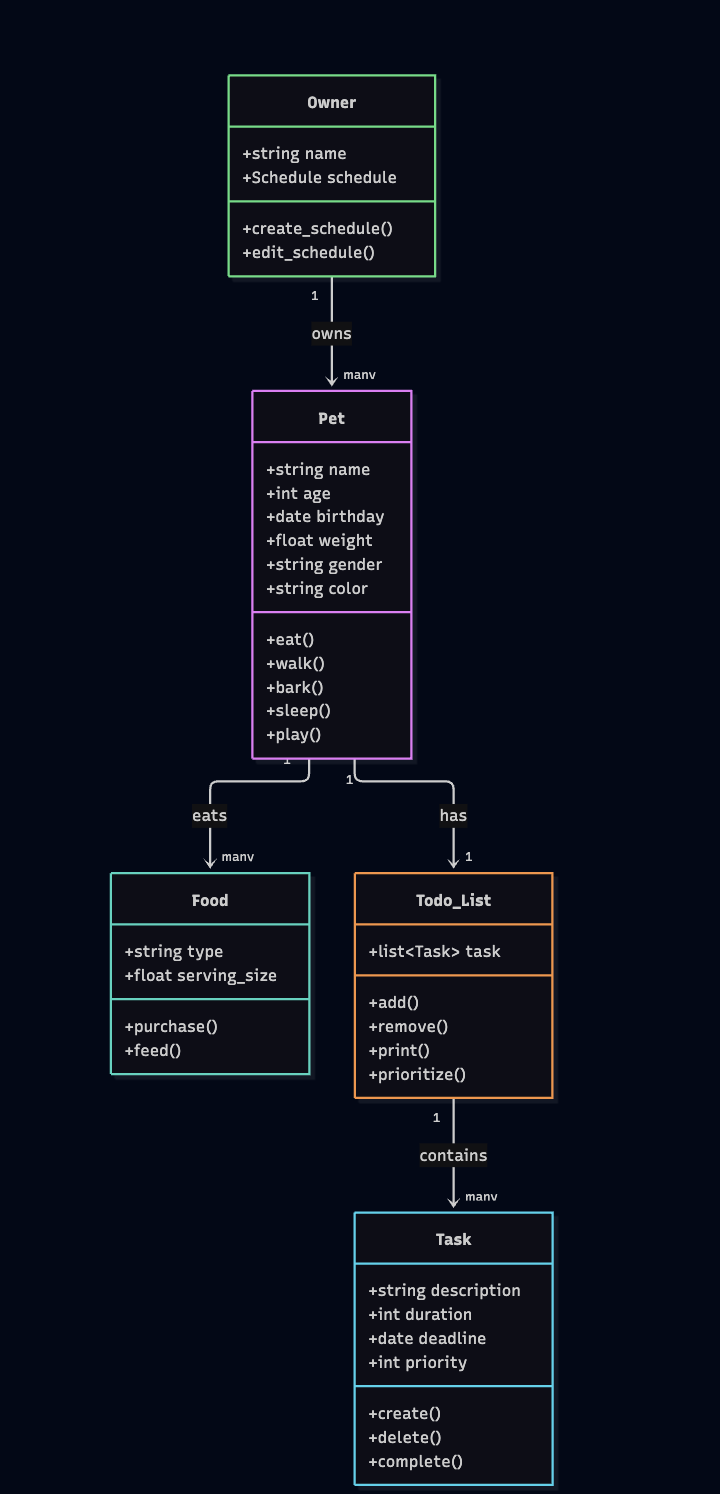
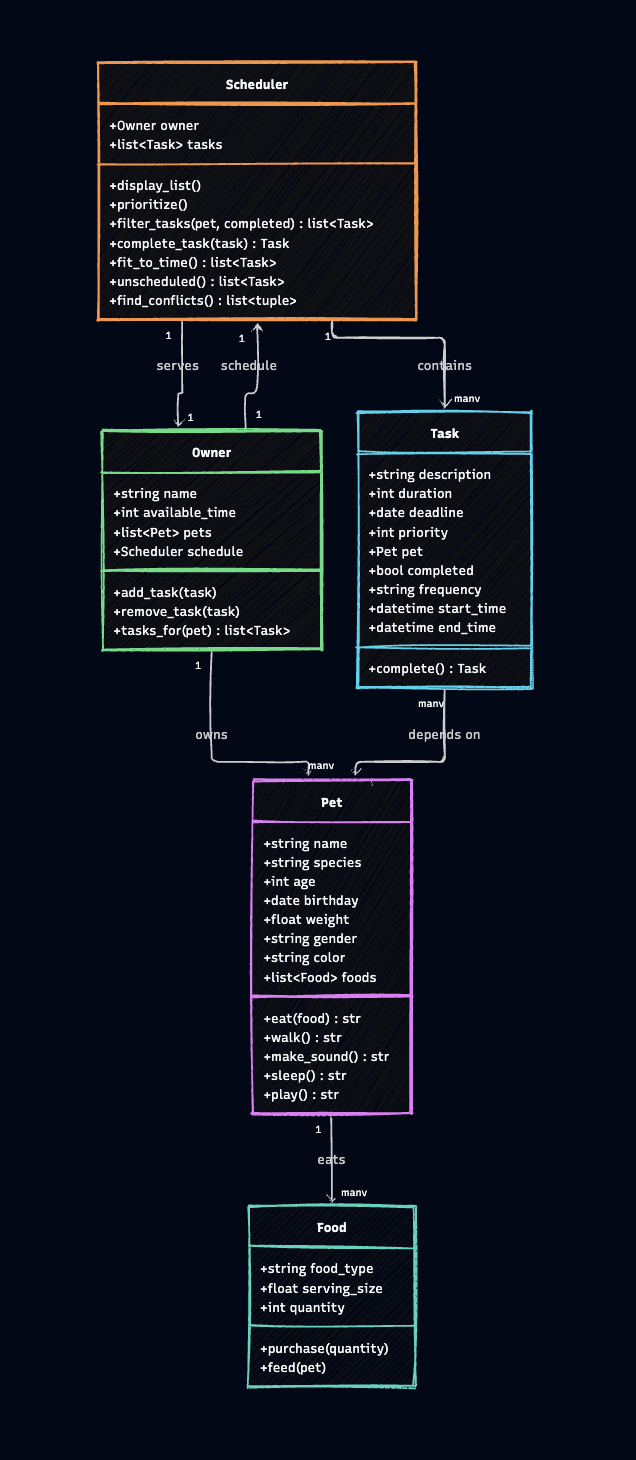
finished building out classes + restructured again
Completed Step 1: Scaffold the Logic Layer; restructured a few methods and organization again; updated uml_draft and mermaid_diagram

Changed region(s): [[0.1494, 0.0308, 0.8365, 1.0], [0.7469, 0.5856, 0.7767, 0.7397]]

diff --git a/pawpal_systems.py b/pawpal_systems.py
@@ -1,7 +1,10 @@
 from __future__ import annotations
 
-from dataclasses import dataclass, field
-from datetime import date
+from dataclasses import dataclass, field, replace
+from datetime import date, datetime, timedelta
+
+# Days until the next occurrence of a recurring task
+FREQUENCY_DAYS = {"daily": 1, "weekly": 7}
 
 
 @dataclass
@@ -12,25 +15,106 @@ class Task:
     priority: int  # 1 is the most urgent
     pet: Pet  # each task depends on a pet (Task "many" -> "1" Pet)
     completed: bool = False
+    frequency: str = "once"  # "once", "daily" or "weekly"
+    start_time: datetime | None = None  # optional; only timed tasks can conflict
 
-    def complete(self) -> None:
-        pass
+    def __post_init__(self) -> None:
+        if self.frequency != "once" and self.frequency not in FREQUENCY_DAYS:
+            raise ValueError(f"Unknown frequency: {self.frequency}")
+
+    @property
+    def end_time(self) -> datetime | None:
+        if self.start_time is None:
+            return None
+        return self.start_time + timedelta(minutes=self.duration)
+
+    def complete(self) -> Task | None:
+        """Mark done; for a recurring task, return the next occurrence (else None)."""
+        self.completed = True
+        if self.frequency == "once":
+            return None
+        shift = timedelta(days=FREQUENCY_DAYS[self.frequency])
+        next_start = self.start_time + shift if self.start_time else None
+        return replace(
+            self, deadline=self.deadline + shift, start_time=next_start, completed=False
+        )
+
+
+def _priority_key(task: Task) -> tuple:
+    # 1. completed: incomplete tasks first, completed tasks last
+    # 2. priority: ascending, since 1 is the most urgent
+    # 3. deadline: earliest first, to break priority ties
+    # 4. duration: shortest first, to break deadline ties
+    return (task.completed, task.priority, task.deadline, task.duration)
 
 
 @dataclass
-class TodoList:
-    tasks: list[Task] = field(default_factory=list)
+class Scheduler:
+    # Scheduler "1" -> "1" Owner; excluded from repr/eq to avoid infinite recursion
+    owner: Owner = field(repr=False, compare=False)
+    tasks: list[Task] = field(default_factory=list)  # Scheduler "1" -> "many" Task
 
     def display_list(self) -> None:
-        pass
+        if not self.tasks:
+            print("No tasks.")
+            return
+        for i, task in enumerate(self.tasks, start=1):
+            mark = "x" if task.completed else " "
+            print(
+                f"{i}. [{mark}] {task.description} ({task.pet.name}) - "
+                f"priority {task.priority}, due {task.deadline}, "
+                f"{task.duration} min, {task.frequency}"
+                + (f", starts {task.start_time:%Y-%m-%d %H:%M}" if task.start_time else "")
+            )
 
     def prioritize(self) -> None:
-        # Sort self.tasks in place by these keys, in order:
-        #   1. completed: incomplete tasks first, completed tasks last
-        #   2. priority: ascending, since 1 is the most urgent
-        #   3. deadline: earliest first, to break priority ties
-        #   4. duration: shortest first, to break deadline ties
-        pass
+        self.tasks.sort(key=_priority_key)
+
+    def filter_tasks(
+        self, pet: Pet | None = None, completed: bool | None = None
+    ) -> list[Task]:
+        return [
+            t
+            for t in self.tasks
+            if (pet is None or t.pet is pet)
+            and (completed is None or t.completed == completed)
+        ]
+
+    def complete_task(self, task: Task) -> Task | None:
+        """Complete a task and queue its next occurrence if it recurs."""
+        next_task = task.complete()
+        if next_task is not None:
+            self.tasks.append(next_task)
+        return next_task
+
+    def fit_to_time(self) -> list[Task]:
+        """Pick incomplete tasks, most urgent first, that fit in the owner's available_time."""
+        plan: list[Task] = []
+        remaining = self.owner.available_time
+        for task in sorted(self.filter_tasks(completed=False), key=_priority_key):
+            if task.duration <= remaining:
+                plan.append(task)
+                remaining -= task.duration
+        return plan
+
+    def unscheduled(self) -> list[Task]:
+        """Incomplete tasks that fit_to_time() leaves out for lack of time."""
+        planned = {id(t) for t in self.fit_to_time()}
+        return [
+            t
+            for t in sorted(self.filter_tasks(completed=False), key=_priority_key)
+            if id(t) not in planned
+        ]
+
+    def find_conflicts(self) -> list[tuple[Task, Task]]:
+        """Pairs of incomplete timed tasks whose time ranges overlap, across all pets."""
+        timed = [t for t in self.filter_tasks(completed=False) if t.start_time]
+        return [
+            (a, b)
+            for i, a in enumerate(timed)
+            for b in timed[i + 1 :]
+            if a.start_time < b.end_time and b.start_time < a.end_time
+        ]
 
 
 @dataclass
@@ -39,11 +123,16 @@ class Food:
     serving_size: float
     quantity: int = 0  # units in stock, updated by purchase() and feed()
 
-    def purchase(self) -> None:
-        pass
+    def purchase(self, quantity: int = 1) -> None:
+        if quantity <= 0:
+            raise ValueError("quantity must be positive")
+        self.quantity += quantity
 
     def feed(self, pet: Pet) -> None:
-        pass
+        if self.quantity <= 0:
+            raise ValueError(f"No {self.food_type} left to feed {pet.name}")
+        self.quantity -= 1
+        pet.eat(self)
 
 
 @dataclass
@@ -62,34 +151,40 @@ class Pet:
         had_birthday = (today.month, today.day) >= (self.birthday.month, self.birthday.day)
         return today.year - self.birthday.year - (not had_birthday)
 
-    def eat(self) -> None:
-        pass
+    def eat(self, food: Food) -> str:
+        return f"{self.name} ate {food.serving_size} of {food.food_type}"
 
-    def walk(self) -> None:
-        pass
+    def walk(self) -> str:
+        return f"{self.name} went for a walk"
 
-    def make_sound(self) -> None:
-        pass
+    def make_sound(self) -> str:
+        sounds = {"dog": "Woof!", "cat": "Meow!", "bird": "Tweet!"}
+        return f"{self.name}: {sounds.get(self.species.lower(), '...')}"
 
-    def sleep(self) -> None:
-        pass
+    def sleep(self) -> str:
+        return f"{self.name} is sleeping"
 
-    def play(self) -> None:
-        pass
+    def play(self) -> str:
+        return f"{self.name} is playing"
 
 
 @dataclass
 class Owner:
     name: str
     available_time: int = 0  # minutes available per day, same unit as Task.duration
-    schedule: TodoList = field(default_factory=TodoList)  # Owner "1" -> "many" Task
     pets: list[Pet] = field(default_factory=list)  # Owner "1" -> "many" Pet
+    schedule: Scheduler = field(init=False)  # Owner "1" -> "1" Scheduler, holds the tasks
+
+    def __post_init__(self) -> None:
+        self.schedule = Scheduler(owner=self)
 
     def add_task(self, task: Task) -> None:
-        pass
+        if not any(task.pet is p for p in self.pets):
+            raise ValueError(f"{task.pet.name} does not belong to {self.name}")
+        self.schedule.tasks.append(task)
 
     def remove_task(self, task: Task) -> None:
-        pass
+        self.schedule.tasks.remove(task)
 
     def tasks_for(self, pet: Pet) -> list[Task]:
-        pass
+        return [t for t in self.schedule.tasks if t.pet is pet]
